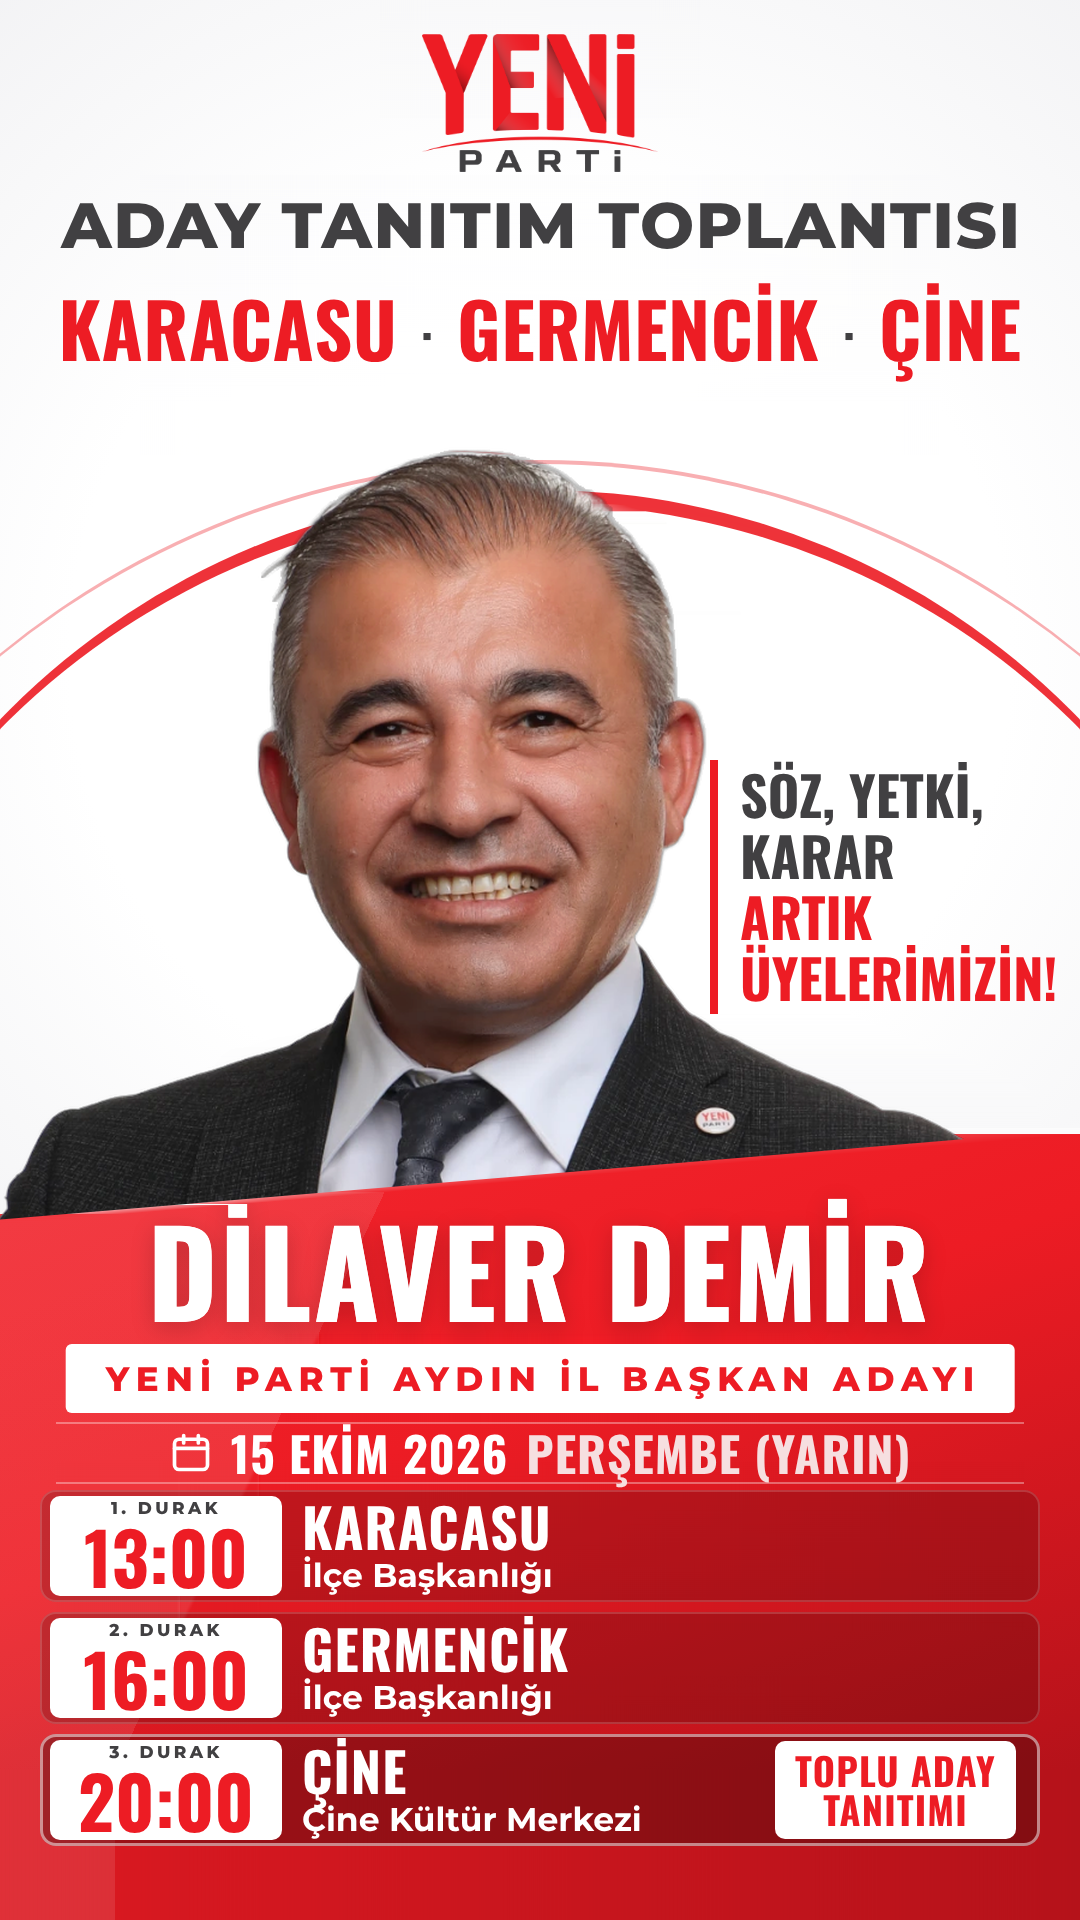
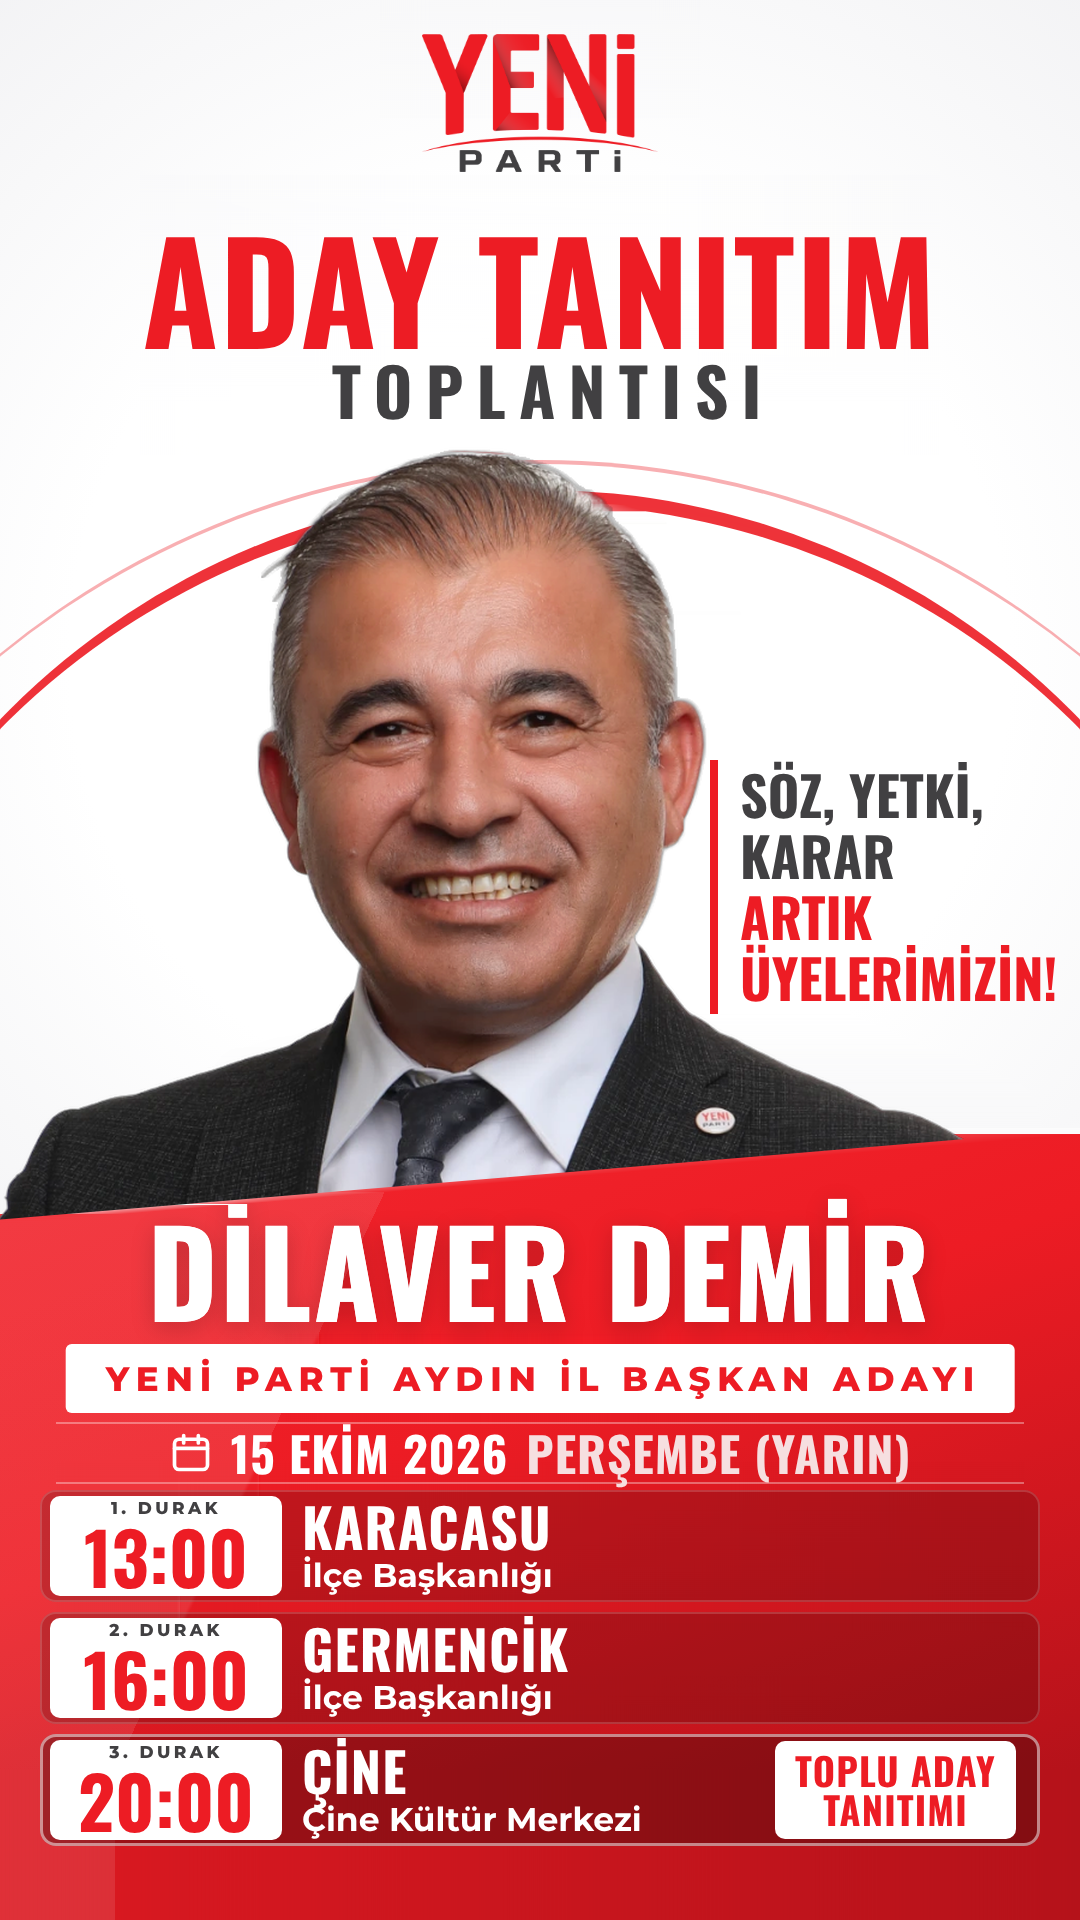
Karacasu-Germencik-Çine programı: başlık sadece 'Aday Tanıtım Toplantısı'
Claude-Session: https://claude.ai/code/session_01SatttGbgBLoCnk9KGLypWv

Changed region(s): [[0.0611, 0.0938, 0.9472, 0.2188]]

diff --git a/tasarim/kisisel/incirliova-orgut/uc-ilce-baslik.html b/tasarim/kisisel/incirliova-orgut/uc-ilce-baslik.html
@@ -2,6 +2,7 @@
 @font-face{font-family:O7;src:url(../../fontlar-gecici/Oswald-700.ttf)}
 html,body{margin:0;width:1080px;height:1440px;overflow:hidden}
 body{position:relative;background:url(_uc-ilce-zemin.png) 0 0/1080px 1440px no-repeat}
-.sehir{position:absolute;left:0;right:0;top:212px;text-align:center;white-space:nowrap;font:76px/1 O7;letter-spacing:.5px;color:#ED1C24}
-.sehir i{font-style:normal;color:#414042;margin:0 .12em}
-</style><body><div class="sehir">KARACASU<i>·</i>GERMENCİK<i>·</i>ÇİNE</div></body></html>
+.m{position:absolute;left:0;right:0;text-align:center;white-space:nowrap;line-height:1}
+.b1{top:138px;font:104px O7;color:#ED1C24;letter-spacing:.01em}
+.b2{top:256px;font:50px O7;color:#414042;letter-spacing:.2em;padding-left:.2em}
+</style><body><div class="m b1">ADAY TANITIM</div><div class="m b2">TOPLANTISI</div></body></html>

diff --git a/tasarim/kisisel/incirliova-orgut/uc-ilce-story.html b/tasarim/kisisel/incirliova-orgut/uc-ilce-story.html
@@ -54,7 +54,7 @@ body{position:relative;background:url(zemin-kaydir.png) 0 0/1080px 1920px no-rep
 </style>
 <body style="--slogan-ust:760px">
 <img class="logo" src="yp-logo-kirpik.png">
-<div class="m ust" style="top:186px">ADAY TANITIM TOPLANTISI</div>
+<div class="m ust" style="top:186px;visibility:hidden">ADAY TANITIM TOPLANTISI</div>
 <div class="m sehir" style="top:272px;font-size:86px;letter-spacing:1px;visibility:hidden">KARACASU <span class="ve">·</span> GERMENCİK <span class="ve">·</span> ÇİNE</div>
 <div class="slogan">SÖZ, YETKİ,<br>KARAR<em>ARTIK<br>ÜYELERİMİZİN!</em></div>
 <div class="hap" style="top:1344px"><span>YENİ PARTİ AYDIN İL BAŞKAN ADAYI</span></div>
